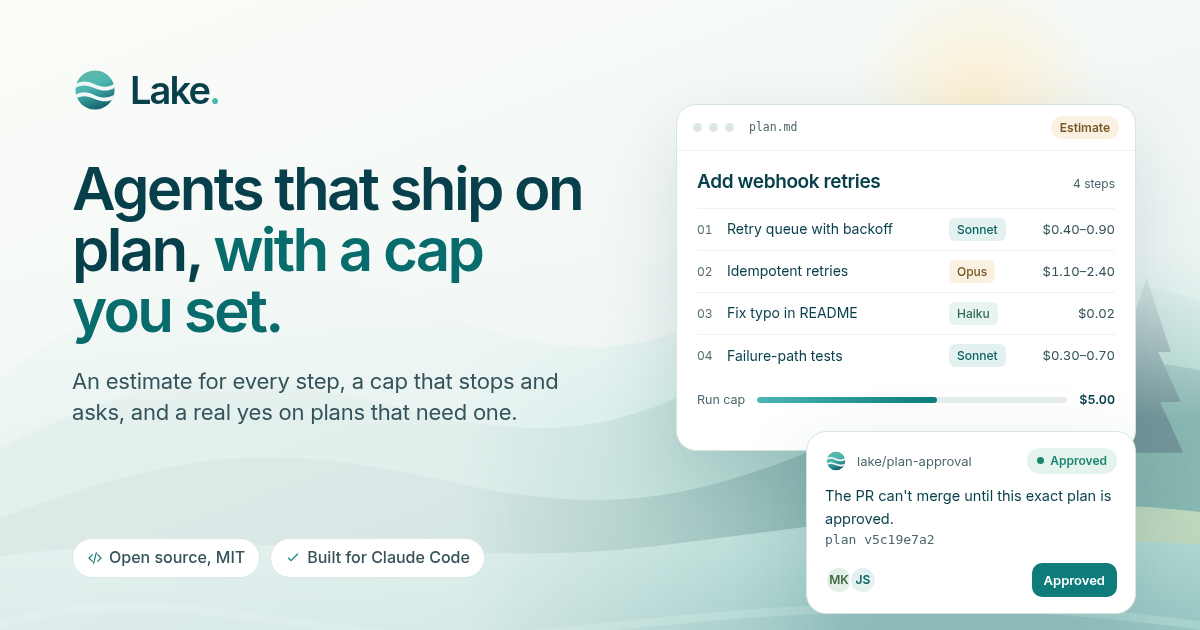
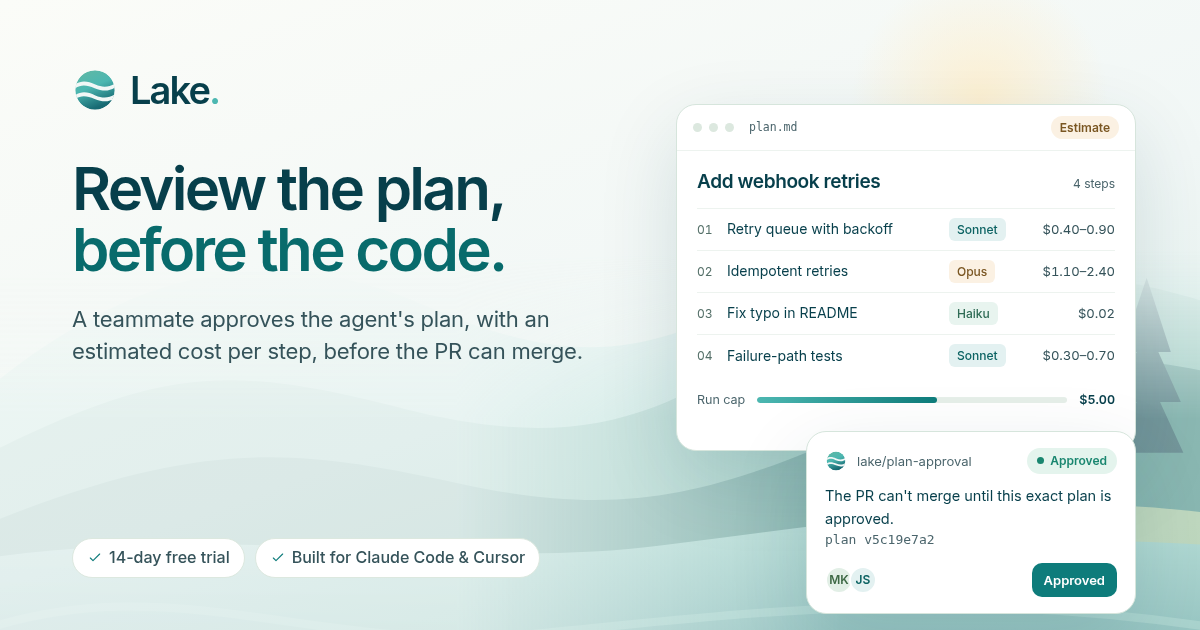
QA M-30 overclaim: canonical claim (a teammate approves the agent's plan, with an estimated cost per step, before the PR can merge) on home meta/lede/card, lake-gate, lake-meter, platform; 'estimated cost' in Solo list; Solo install = npm i -D lake-gate && npx lake-gate init --try --cap 10 (text and

Changed region(s): [[0.0617, 0.2714, 0.4933, 0.6635], [0.0617, 0.8444, 0.4625, 0.9349]]

diff --git a/index.html b/index.html
@@ -4,7 +4,7 @@
 <meta charset="utf-8">
 <meta name="viewport" content="width=device-width,initial-scale=1">
 <title>Lake · Plan review for AI coding agents</title>
-<meta name="description" content="Lake shifts review left: your coding agent's plan gets a cost estimate for every step and a teammate's review before any code is written. Save money and time, and build the right thing. 14-day free trial.">
+<meta name="description" content="Lake shifts review left: a teammate approves your coding agent's plan, with an estimated cost per step, before the PR can merge. Save money and time, and build the right thing. 14-day free trial.">
 <meta name="theme-color" content="#0e7c7b">
 <meta property="og:title" content="Lake · Plan review for AI coding agents">
 <meta property="og:description" content="Review the plan, before the code. A cost estimate for every step, a teammate's review before implementation, and a cap that holds at run time. 14-day free trial.">
@@ -65,7 +65,7 @@
     <div class="hero-copy">
       <p class="eyebrow"><span class="small-line"></span> Plan review for AI coding agents</p>
       <h1 id="hero-title">Review the plan, <em>before the&nbsp;code.</em></h1>
-      <p class="lede">Lake moves review from the pull request to the plan. Your coding agent's plan gets a cost for every step and a teammate's review <strong>before a line of code is written</strong>. You save money and time, and the agent solves the right problem, the right way.</p>
+      <p class="lede">Lake moves review from the pull request to the plan. A teammate approves the agent's plan, with an estimated cost per step, <strong>before the PR can merge</strong>. You save money and time, and the agent solves the right problem, the right way.</p>
       <div class="hero-ctas">
         <a class="button" href="#start">Start free trial <svg class="i"><use href="#down"/></svg></a>
         <a class="text-link" href="/lake-gate/app/#/demo">Try the live demo <svg class="i"><use href="#up"/></svg></a>
@@ -77,7 +77,7 @@
       </ul>
     </div>
 
-    <div class="flow" aria-label="Illustration: a sample plan gets a cost per step, then a teammate approves it before the agent builds">
+    <div class="flow" aria-label="Illustration: a sample plan gets a cost per step, then a teammate approves it before the PR can merge">
       <div class="win plan">
         <div class="win-bar"><i></i><i></i><i></i><span>plan.md</span><span class="tag">In review</span></div>
         <div class="plan-body">
@@ -93,7 +93,7 @@
       </div>
       <div class="win gate">
         <header><img src="/assets/logo-mark.svg" alt=""><span>lake/plan-approval</span><span class="state">Waiting</span></header>
-        <p>The agent builds once a teammate approves this exact plan.<span>plan v5c19e7a2</span></p>
+        <p>The PR can't merge until a teammate approves this exact plan.<span>plan v5c19e7a2</span></p>
         <div class="row"><span class="avatar" aria-hidden="true">MK</span><span class="avatar" aria-hidden="true" style="margin-left:-14px;background:#e3f1f1;color:#0b6262">JS</span><span class="approve">Approve<svg class="i"><use href="#check"/></svg></span></div>
       </div>
       <span class="ripple-ring" aria-hidden="true"></span>
@@ -154,11 +154,11 @@
         <p class="price"><b>$12</b><span>per month</span></p>
         <ul class="incl">
           <li><svg class="i"><use href="#check"/></svg>Plan review for your own agent runs</li>
-          <li><svg class="i"><use href="#check"/></svg>A model and a cost for every step</li>
+          <li><svg class="i"><use href="#check"/></svg>A model and an estimated cost for every step</li>
           <li><svg class="i"><use href="#check"/></svg>A run cap that stops and asks</li>
           <li><svg class="i"><use href="#check"/></svg>Review app and MCP for Claude Code &amp; Cursor</li>
         </ul>
-        <div class="install two"><code><span class="ln"><span class="prompt">$</span><span class="cmd"><span class="nw">npm i -D lake-gate</span></span></span><span class="ln"><span class="prompt">$</span><span class="cmd"><span class="nw">npx lake-gate init</span> <span class="nw">--cap 5</span></span></span></code><button class="copy" type="button" data-copy="npm i -D lake-gate &amp;&amp; npx lake-gate init --cap 5" aria-label="Copy install commands"><svg class="i"><use href="#copy"/></svg><span class="idle">Copy</span><span class="done">Copied</span></button></div>
+        <div class="install two"><code><span class="ln"><span class="prompt">$</span><span class="cmd"><span class="nw">npm i -D lake-gate &amp;&amp;</span> <span class="nw">npx lake-gate init</span> <span class="nw">--try --cap 10</span></span></span></code><button class="copy" type="button" data-copy="npm i -D lake-gate &amp;&amp; npx lake-gate init --try --cap 10" aria-label="Copy install commands"><svg class="i"><use href="#copy"/></svg><span class="idle">Copy</span><span class="done">Copied</span></button></div>
         <p class="p-note">Run it in your repo. Your trial starts at install.</p>
       </div>
     </article>

diff --git a/lake-gate/index.html b/lake-gate/index.html
@@ -4,7 +4,7 @@
 <meta charset="utf-8">
 <meta name="viewport" content="width=device-width,initial-scale=1">
 <title>lake-gate is now Lake · Plan review for AI coding agents</title>
-<meta name="description" content="lake-gate is now Lake: review your coding agent's plan, with a cost for every step, before any code is written. 14-day free trial.">
+<meta name="description" content="lake-gate is now Lake: a teammate approves your coding agent's plan, with an estimated cost per step, before the PR can merge. 14-day free trial.">
 <meta name="robots" content="noindex">
 <link rel="canonical" href="https://getlake.dev/">
 <meta http-equiv="refresh" content="0; url=https://getlake.dev/#how">
@@ -21,7 +21,7 @@ a.t{color:#086b6c;margin-left:16px;font-size:14px}:focus-visible{outline:2px sol
 <body>
 <main>
 <h1>lake-gate is now Lake.</h1>
-<p>Review your coding agent's plan, with a cost for every step, before any code is written.</p>
+<p>A teammate approves your coding agent's plan, with an estimated cost per step, before the PR can merge.</p>
 <a class="b" href="https://getlake.dev/#how">Go to Lake</a><a class="t" href="app/#/demo">Live demo</a>
 </main>
 </body>

diff --git a/lake-meter/index.html b/lake-meter/index.html
@@ -178,7 +178,7 @@ html:not([data-ab-cta=b]) .ab-cta-b,html[data-ab-cta=b] .ab-cta-a{display:none!i
       <p class="eyebrow light"><span class="rule"></span>PART OF LAKE</p>
       <h2 id="teams-h">Review the plan, <span>before the code.</span></h2>
       <ul class="pro-list">
-        <li><svg><use href="#i-check"/></svg><span>lake-meter is the cost layer of <a href="https://getlake.dev/">Lake</a>: a teammate reviews the agent's plan, with this cost on every step, before any code is written</span></li>
+        <li><svg><use href="#i-check"/></svg><span>lake-meter is the cost layer of <a href="https://getlake.dev/">Lake</a>: a teammate approves the agent's plan, with an estimated cost per step, before the PR can merge</span></li>
         <li><svg><use href="#i-check"/></svg><span>One install for both: <code>npm i -D lake-gate</code> then <code>npx lake-gate init --cap 5</code>. Solo $12/month, Team $15 per user/month, 14-day free trial</span></li>
         <li><svg><use href="#i-check"/></svg><span>Founding offer: the first 50 users get 2 months free, then 50% off for life</span></li>
       </ul>

diff --git a/platform/index.html b/platform/index.html
@@ -122,7 +122,7 @@
     <div>
       <p class="section-index">02 · Lake today</p>
       <h2 id="tools-title">Plan review, <em>available now.</em></h2>
-      <p class="quiet">Lake reviews your coding agent's plan, with a cost for every step, before any code is written. 14-day free trial, then from $12 a month.</p>
+      <p class="quiet">With Lake, a teammate approves your coding agent's plan, with an estimated cost per step, before the PR can merge. 14-day free trial, then from $12 a month.</p>
     </div>
     <ul class="pillars">
       <li><span class="ic"><svg class="i"><use href="#check"/></svg></span><div><b>Review the plan, before the code</b><p>A teammate approves the agent's plan before implementation starts, and the PR can't merge without it.</p><a class="text-link" style="color:var(--mint)" href="/#how">How Lake works <svg class="i"><use href="#arrow"/></svg></a></div></li>

diff --git a/assets/site.css b/assets/site.css
@@ -230,3 +230,5 @@ section h2{font-size:34px}.sec{padding:70px 0}.core{padding:70px 0}
 .p-meta span.free{color:#13705d}
 .offer span,.incl li,.sec-head p,.lede,.feat p,.pillars p,.partner-card .body,.microcopy{text-wrap:pretty}
 .install.two{align-items:center;padding-top:10px;padding-bottom:10px}.install.two code{display:flex;flex-direction:column;gap:2px;line-height:1.6;min-width:0}.install.two .ln{display:grid;grid-template-columns:auto minmax(0,1fr);align-items:baseline}.install.two .cmd{white-space:normal}
+@media(max-width:400px){.install.two{padding-left:12px;gap:6px}.install.two code{font-size:12.5px}.install.two .prompt{margin-right:6px}}
+@media(max-width:340px){.install.two code{font-size:12px}}
